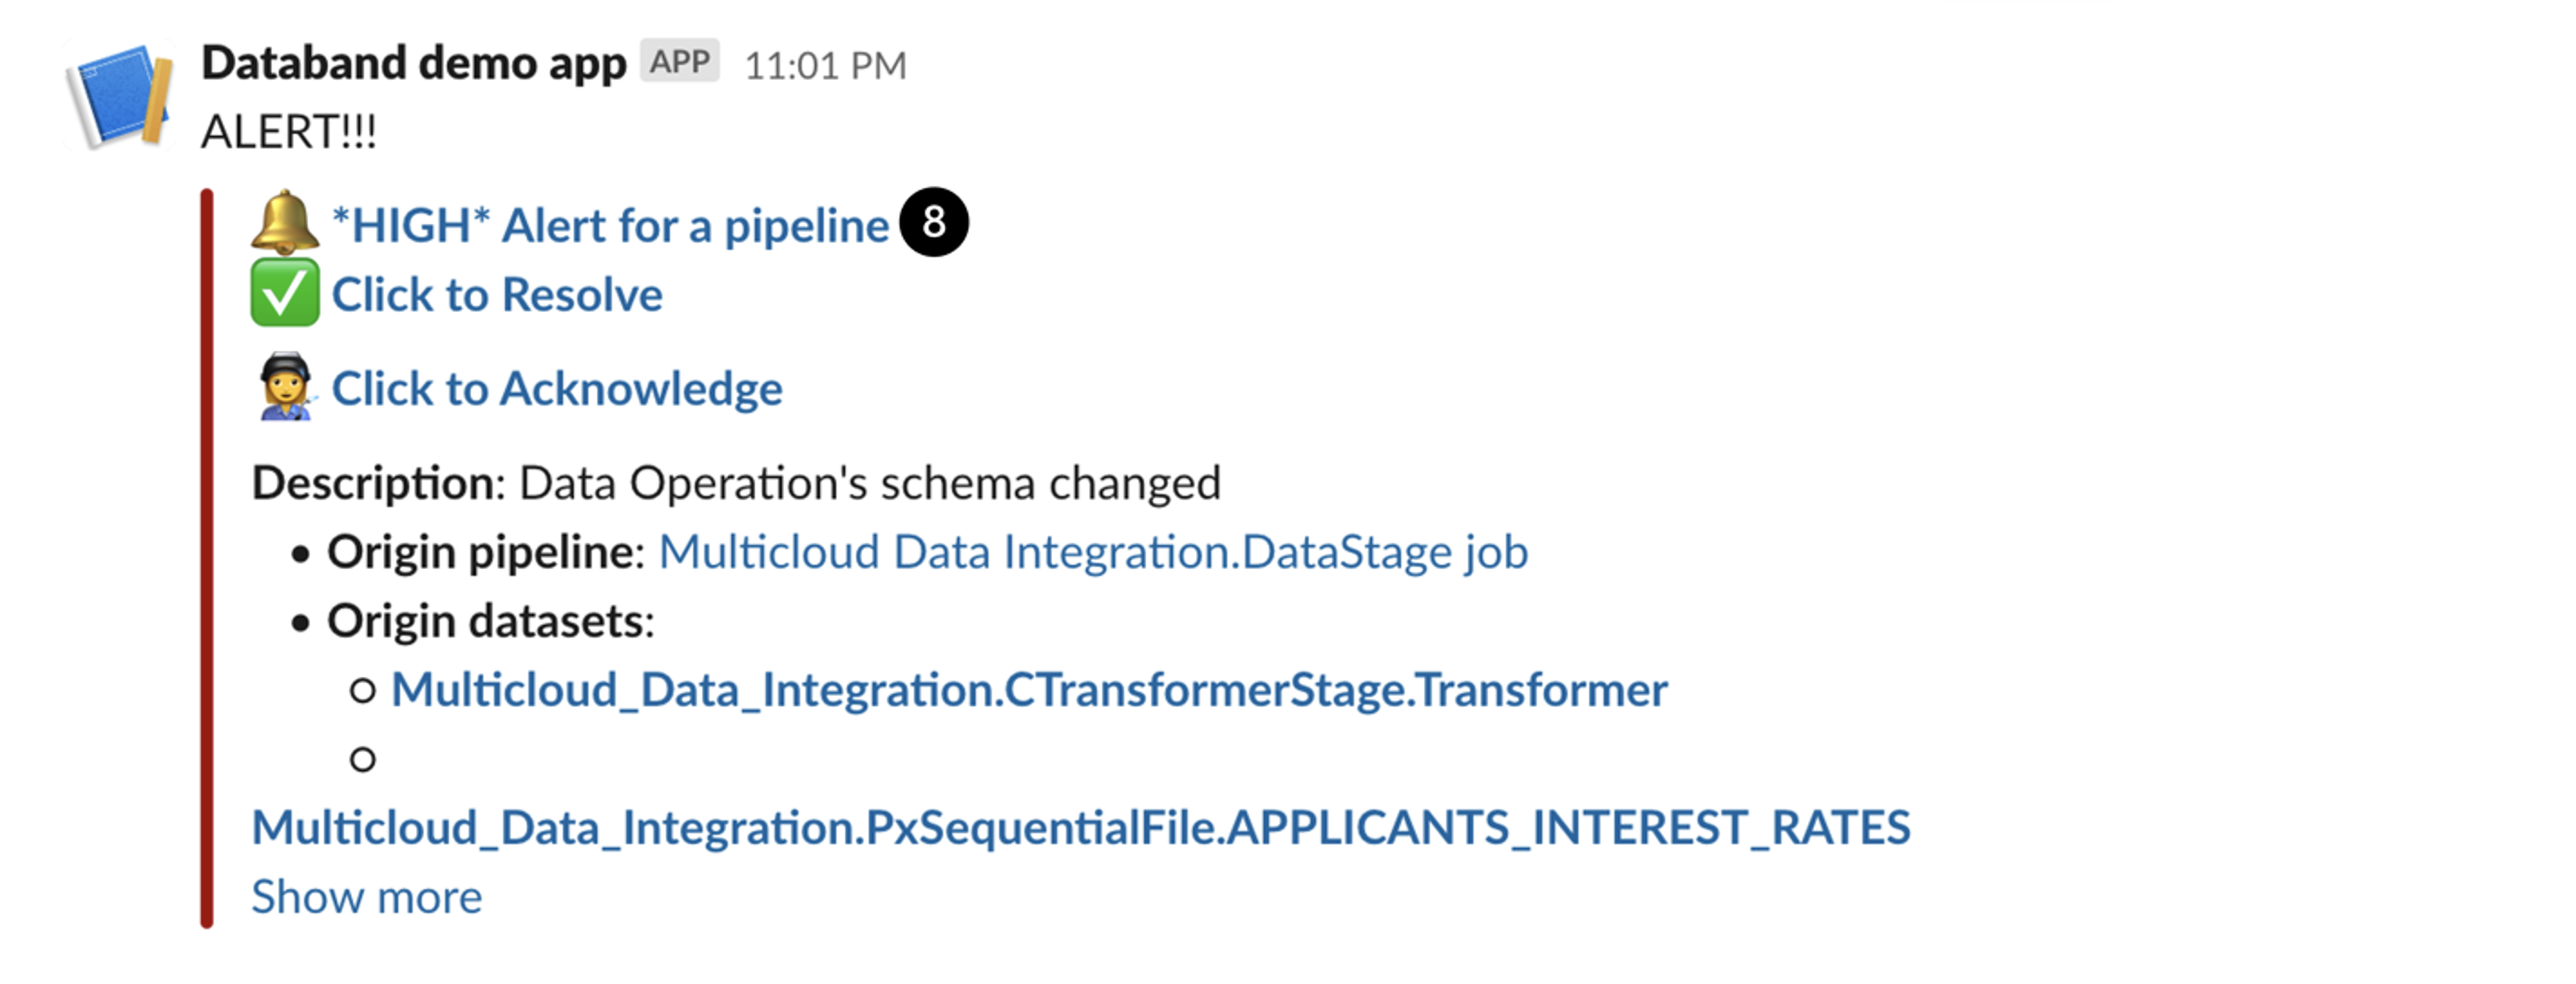
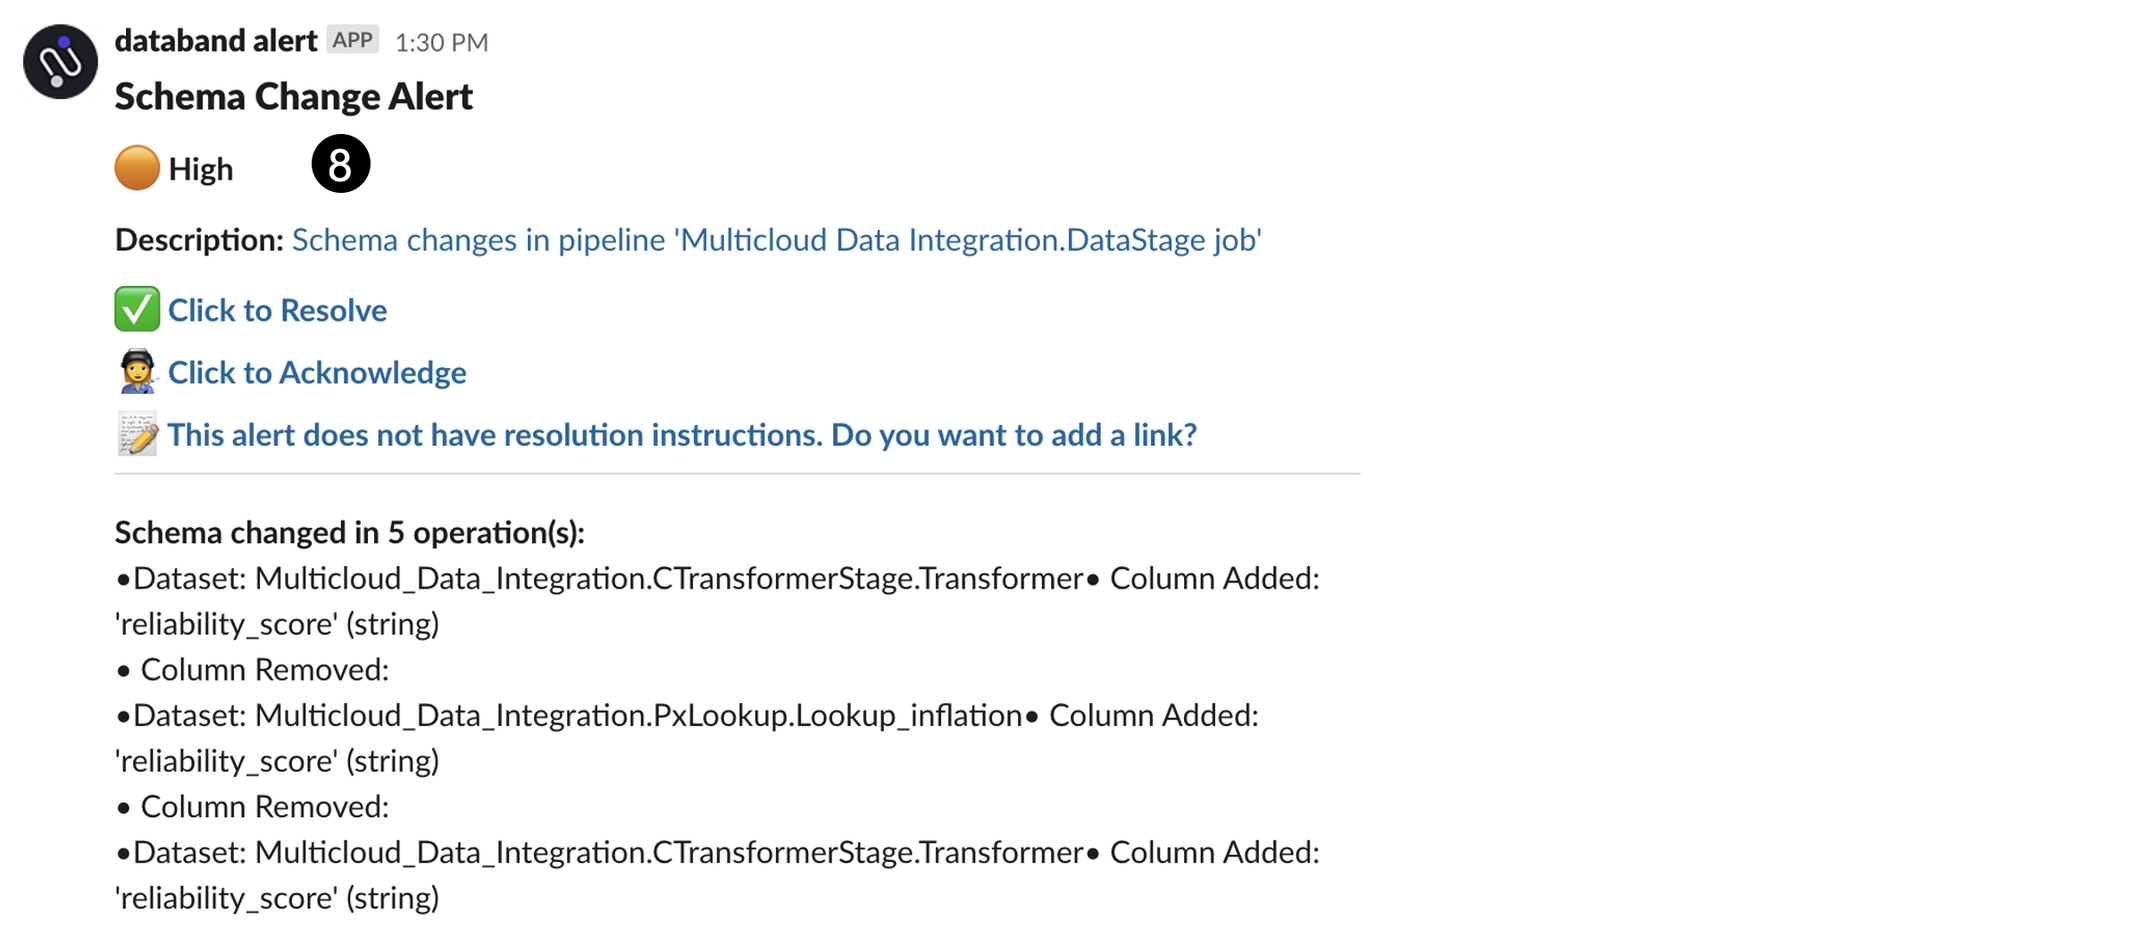
log and alert updates (#81)

Changed region(s): [[0.0, 0.0305, 0.75, 0.9771]]

diff --git a/content/Databand/102.md b/content/Databand/102.md
@@ -44,8 +44,6 @@ updated: 2023-05-15
 
    **NOTE:** These stages can run in parallel, and thus, the sum total of the time of each individual stage shown is likely much larger than the total time to run the job.
 
-{/* TODO - uncomment when log ingestion is fixed
-
 1. Next, click on the **MORTGAGE_APPLICANTS** stage.
 
 1. Select the **Logs** tab on the top menu. Resize the view like you did earlier to see more of the log for the selected stage.
@@ -53,7 +51,6 @@ updated: 2023-05-15
    ![stage logs](./images/102/stage-logs.png)
 
    This view will show us the logs associated with that specific stage. Feel free to click on other stages to view those logs as well.
-*/}
 
    At this point, you have looked through some of the “step-through” functionality that Databand brings to observing our DataStage jobs. Switch back to the browser tab hosting your DataStage environment and run the job **4 more times** to generate more metrics and set some baselines for our Databand environment. This will make sense as we continue our lab and will simulate what a customer environment would look like where a job would run many times.
 
@@ -171,9 +168,9 @@ Now, switch back to your Cloud Pak for Data DataStage environment where you will
 
    ![apply derivation](./images/102/apply-derivation.png)
 
-   Run the job (click the run icon at the top) and wait for a few minutes until the job completes and the alert is triggered. When the alert is triggered, you will see a message in the TODO - update **#databand-demo-alerts** Slack channel similar to the screenshot below.
+   Run the job (click the run icon at the top) and wait for a few minutes until the job completes and the alert is triggered. When the alert is triggered, you will see a message in the **#databand-alerts** Slack channel in the workshop namespace similar to the screenshot below.
 
-1. Click on the **HIGH Alert for a pipeline** in the Slack message. This is the top message next to the **orange circle** icon. This opens the following screen. TODO - recapture
+1. Click on the **Schema changes in pipeline 'Multicloud Data Integration.DataStage.job'** link in the Slack message. This alert description follows the High severity **orange circle** icon. This opens the following screen:
 
    ![slack alert](./images/102/slack-alert.png)
 
